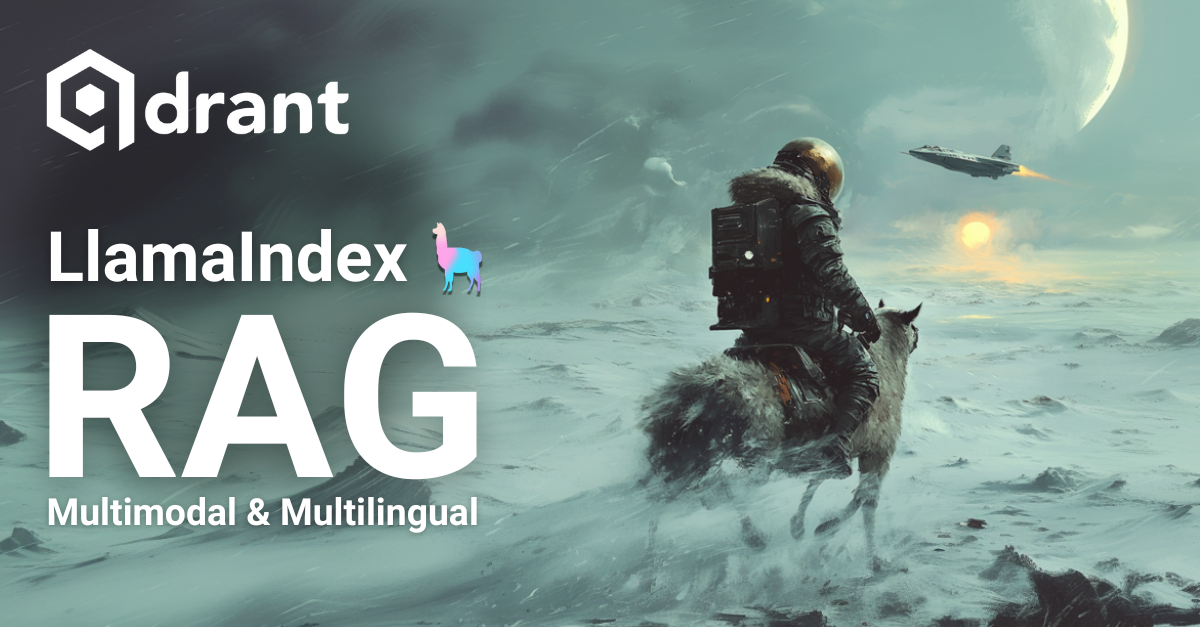
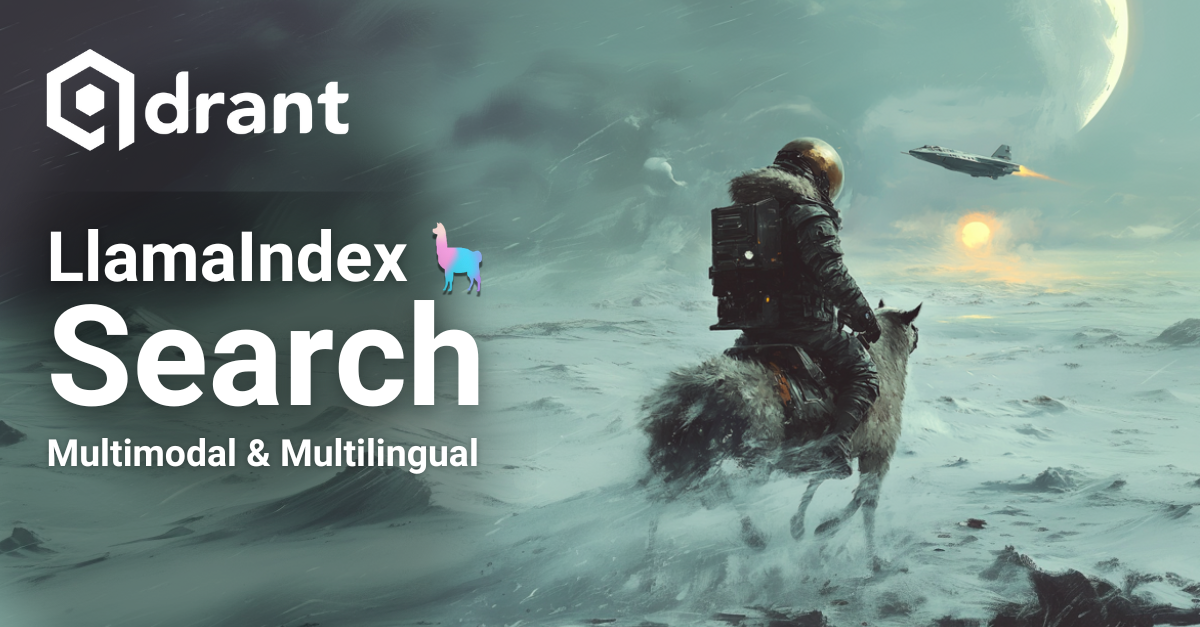
fix title

Changed region(s): [[0.0, 0.3636, 0.4317, 1.0]]

diff --git a/qdrant-landing/content/documentation/multimodal-search.md b/qdrant-landing/content/documentation/multimodal-search.md
@@ -8,7 +8,7 @@ aliases:
   - /documentation/advanced-tutorials/multimodal-search-fastembed/
 ---
 
-# Multilingual & Multimodal RAG with LlamaIndex
+# Multilingual & Multimodal Search with LlamaIndex
 
 ![Snow prints](/documentation/examples/multimodal-search/image-1.png)
 
